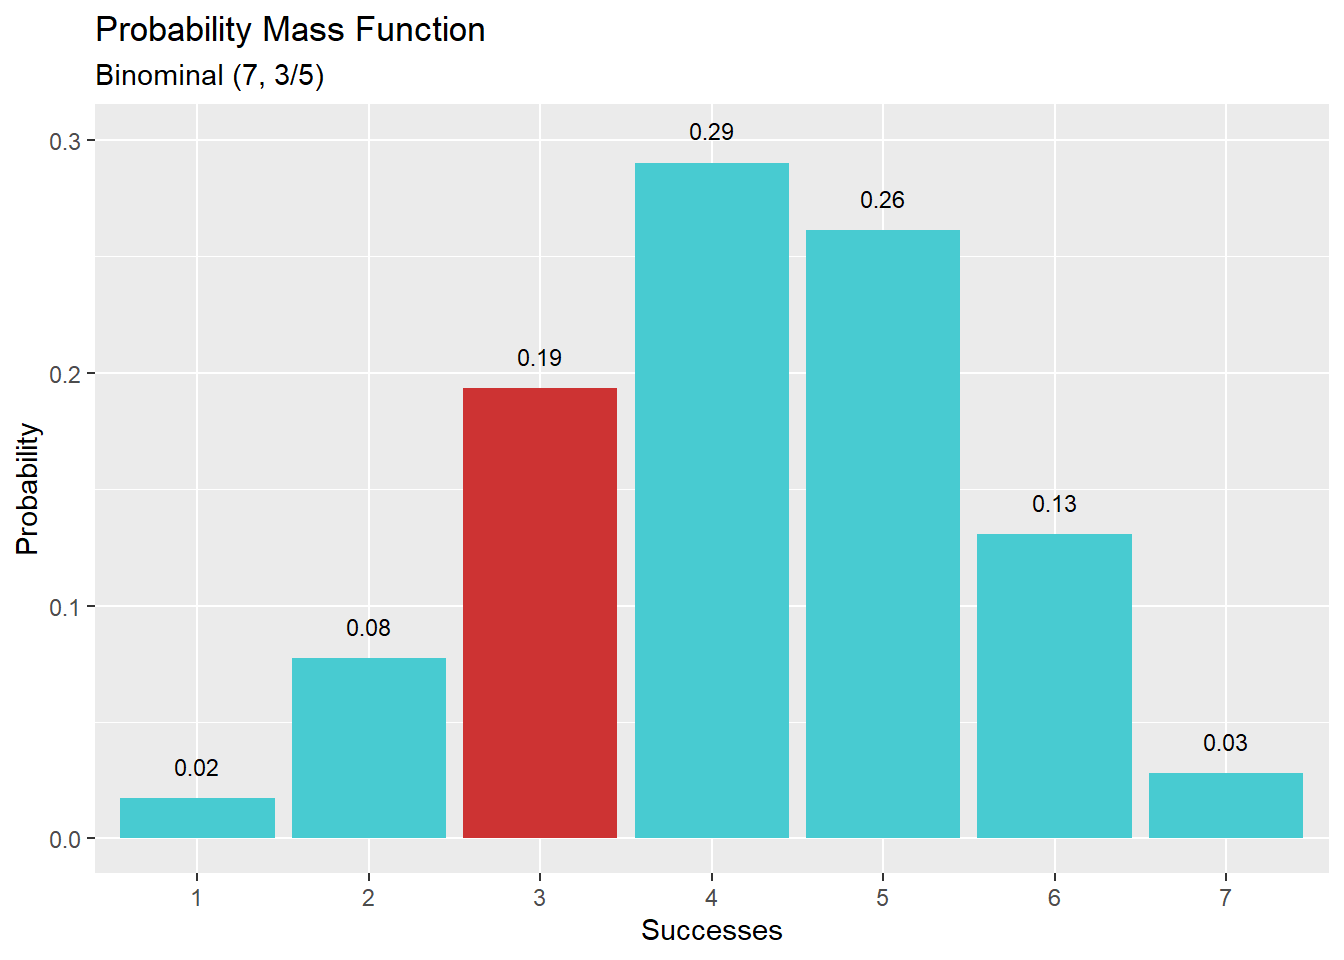
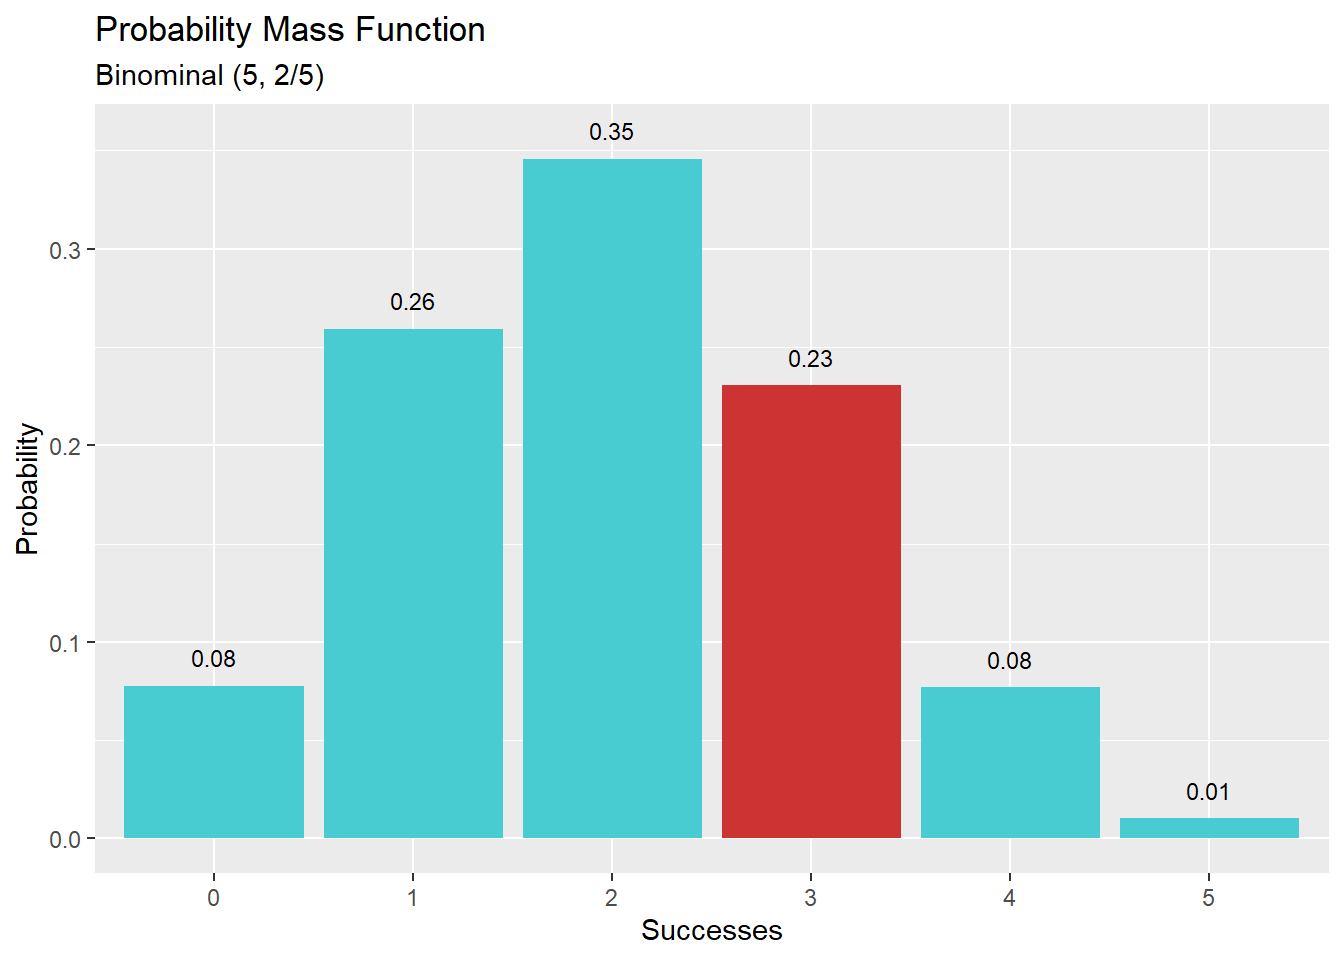
z test and t 5

diff --git a/משתנים-מקריים-והתפלגויות.html b/משתנים-מקריים-והתפלגויות.html
@@ -260,7 +260,7 @@ code span.wa { color: #60a0b0; font-weight: bold; font-style: italic; } /* Warni
 <p>דוגמה: נדגום 10 פעמים מתוך התפלגות גיאומטרית עם סיכוי 1/6 להצלחה.
 כמה כשלונות לפני ההצלחה הראשונה יהיו בכל אחד מהמקרים?</p>
 <div class="sourceCode" id="cb2"><pre class="sourceCode r"><code class="sourceCode r"><span id="cb2-1"><a href="משתנים-מקריים-והתפלגויות.html#cb2-1" aria-hidden="true" tabindex="-1"></a><span class="fu">rgeom</span>(<span class="at">n=</span><span class="dv">10</span>, <span class="at">prob=</span><span class="dv">1</span><span class="sc">/</span><span class="dv">6</span>)</span></code></pre></div>
-<pre><code>##  [1]  2 11  9  2  0  7  0 20  3  0</code></pre>
+<pre><code>##  [1]  2  3  0  0 17  2  7  0  0  8</code></pre>
 <h3>
 מציאת הסתברות ספציפית
 </h3>
@@ -308,26 +308,26 @@ code span.wa { color: #60a0b0; font-weight: bold; font-style: italic; } /* Warni
 <p>דוגמה: נדגום 5 פעמים מתוך התפלגות בינומית הכוללת 10 ניסויי ברנולי עם הסתברות 1/3 להצלחה.
 כמה הצלחות יהיו בכל אחד מהמקרים?</p>
 <div class="sourceCode" id="cb13"><pre class="sourceCode r"><code class="sourceCode r"><span id="cb13-1"><a href="משתנים-מקריים-והתפלגויות.html#cb13-1" aria-hidden="true" tabindex="-1"></a><span class="fu">rbinom</span>(<span class="at">n=</span><span class="dv">5</span>, <span class="at">size=</span><span class="dv">10</span>, <span class="at">prob=</span><span class="dv">1</span><span class="sc">/</span><span class="dv">3</span>)</span></code></pre></div>
-<pre><code>## [1] 4 2 3 3 4</code></pre>
+<pre><code>## [1] 1 2 4 2 3</code></pre>
 <h3>
 מציאת הסתברות ספציפית
 </h3>
 <pre><code>dbinom(x, size, prob, log = FALSE)</code></pre>
-<p>דוגמא: ההסתברות למאורע של בדיוק 3 הצלחות מתוך 7 ניסויי ברנולי עם הסתברות 3/5 להצלחה</p>
-<div class="sourceCode" id="cb16"><pre class="sourceCode r"><code class="sourceCode r"><span id="cb16-1"><a href="משתנים-מקריים-והתפלגויות.html#cb16-1" aria-hidden="true" tabindex="-1"></a>p <span class="ot">=</span> (<span class="dv">3</span><span class="sc">/</span><span class="dv">5</span>)</span>
-<span id="cb16-2"><a href="משתנים-מקריים-והתפלגויות.html#cb16-2" aria-hidden="true" tabindex="-1"></a>size <span class="ot">=</span> <span class="dv">7</span></span>
+<p>דוגמא: ההסתברות למאורע של בדיוק 3 הצלחות מתוך 5 ניסויי ברנולי עם הסתברות 2/5 להצלחה</p>
+<div class="sourceCode" id="cb16"><pre class="sourceCode r"><code class="sourceCode r"><span id="cb16-1"><a href="משתנים-מקריים-והתפלגויות.html#cb16-1" aria-hidden="true" tabindex="-1"></a>p <span class="ot">=</span> <span class="dv">2</span><span class="sc">/</span><span class="dv">5</span></span>
+<span id="cb16-2"><a href="משתנים-מקריים-והתפלגויות.html#cb16-2" aria-hidden="true" tabindex="-1"></a>size <span class="ot">=</span> <span class="dv">5</span></span>
 <span id="cb16-3"><a href="משתנים-מקריים-והתפלגויות.html#cb16-3" aria-hidden="true" tabindex="-1"></a>successes <span class="ot">=</span> <span class="dv">3</span></span>
-<span id="cb16-4"><a href="משתנים-מקריים-והתפלגויות.html#cb16-4" aria-hidden="true" tabindex="-1"></a><span class="fu">dbinom</span>(<span class="at">x =</span> successes, <span class="at">size =</span> size, <span class="at">prob =</span> p) <span class="co"># 0.193536</span></span></code></pre></div>
+<span id="cb16-4"><a href="משתנים-מקריים-והתפלגויות.html#cb16-4" aria-hidden="true" tabindex="-1"></a><span class="fu">dbinom</span>(<span class="at">x =</span> successes, <span class="at">size =</span> size, <span class="at">prob =</span> p) <span class="co"># 0.2304</span></span></code></pre></div>
 <p><img src="R-Tutorials_files/figure-html/unnamed-chunk-12-1.png" width="672" style="display: block; margin: auto auto auto 0;" /></p>
 <h3>
 הסתברות מצטברת עד לנקודה p
 </h3>
 <pre><code>pbinom(q, size, prob, lower.tail = TRUE, log.p = FALSE)</code></pre>
-<p>דוגמא: ההסתברות המצטברת של עד 3 הצלחות. (כלומר, הסיכוי לקבל שלוש הצלחות לכל היותר. סכום ההסתברויות) מתוך התפלגות בינומית הכוללת 6 ניסויי ברנולי עם הסתברות 2/3 להצלחה.</p>
-<div class="sourceCode" id="cb18"><pre class="sourceCode r"><code class="sourceCode r"><span id="cb18-1"><a href="משתנים-מקריים-והתפלגויות.html#cb18-1" aria-hidden="true" tabindex="-1"></a>p <span class="ot">=</span> <span class="dv">2</span><span class="sc">/</span><span class="dv">3</span></span>
+<p>דוגמא: ההסתברות המצטברת של עד 3 הצלחות. (כלומר, הסיכוי לקבל שלוש הצלחות לכל היותר. סכום ההסתברויות) מתוך התפלגות בינומית הכוללת 5 ניסויי ברנולי עם הסתברות 1/2 להצלחה.</p>
+<div class="sourceCode" id="cb18"><pre class="sourceCode r"><code class="sourceCode r"><span id="cb18-1"><a href="משתנים-מקריים-והתפלגויות.html#cb18-1" aria-hidden="true" tabindex="-1"></a>p <span class="ot">=</span> <span class="dv">1</span><span class="sc">/</span><span class="dv">2</span></span>
 <span id="cb18-2"><a href="משתנים-מקריים-והתפלגויות.html#cb18-2" aria-hidden="true" tabindex="-1"></a>n <span class="ot">=</span> <span class="dv">3</span></span>
-<span id="cb18-3"><a href="משתנים-מקריים-והתפלגויות.html#cb18-3" aria-hidden="true" tabindex="-1"></a>size <span class="ot">=</span> <span class="dv">6</span></span>
-<span id="cb18-4"><a href="משתנים-מקריים-והתפלגויות.html#cb18-4" aria-hidden="true" tabindex="-1"></a><span class="fu">pbinom</span>(<span class="at">q =</span> n, <span class="at">size =</span> size, <span class="at">prob =</span> p, <span class="at">lower.tail =</span> <span class="cn">TRUE</span>) <span class="co"># 0.3196159</span></span></code></pre></div>
+<span id="cb18-3"><a href="משתנים-מקריים-והתפלגויות.html#cb18-3" aria-hidden="true" tabindex="-1"></a>size <span class="ot">=</span> <span class="dv">5</span></span>
+<span id="cb18-4"><a href="משתנים-מקריים-והתפלגויות.html#cb18-4" aria-hidden="true" tabindex="-1"></a><span class="fu">pbinom</span>(<span class="at">q =</span> n, <span class="at">size =</span> size, <span class="at">prob =</span> p, <span class="at">lower.tail =</span> <span class="cn">TRUE</span>) <span class="co"># 0.8125</span></span></code></pre></div>
 <p><img src="R-Tutorials_files/figure-html/unnamed-chunk-14-1.png" width="672" style="display: block; margin: auto auto auto 0;" /></p>
 <h3>
 הסתברות מצטברת מנקודה p (כל הערכים שגדולים מ-p)
@@ -363,9 +363,9 @@ code span.wa { color: #60a0b0; font-weight: bold; font-style: italic; } /* Warni
 <span id="cb24-4"><a href="משתנים-מקריים-והתפלגויות.html#cb24-4" aria-hidden="true" tabindex="-1"></a>norm_sample <span class="ot">&lt;-</span> <span class="fu">rnorm</span>(<span class="at">n=</span>n, <span class="at">mean=</span>mean, <span class="at">sd=</span>sd)</span>
 <span id="cb24-5"><a href="משתנים-מקריים-והתפלגויות.html#cb24-5" aria-hidden="true" tabindex="-1"></a><span class="co"># print the first 20 items</span></span>
 <span id="cb24-6"><a href="משתנים-מקריים-והתפלגויות.html#cb24-6" aria-hidden="true" tabindex="-1"></a><span class="fu">print</span>(norm_sample[<span class="dv">0</span><span class="sc">:</span><span class="dv">20</span>])</span></code></pre></div>
-<pre><code>##  [1] 51.67233 53.32431 69.04341 65.12751 64.12149 57.37924 62.22402 62.54497
-##  [9] 60.80654 67.32395 62.28088 51.80256 54.13205 57.30581 53.55748 58.90666
-## [17] 55.29403 54.83831 61.73867 54.25352</code></pre>
+<pre><code>##  [1] 59.25664 61.04838 56.55537 65.07384 50.65500 61.45350 66.09099 70.10266
+##  [9] 57.99677 67.83765 55.85247 64.87317 58.62496 62.81638 56.23248 61.32613
+## [17] 59.57106 58.23682 62.05545 56.32074</code></pre>
 <p>אלו היו עשרים הערכים הראשונים מתוך 300 הערכים במדגם. <br>
 <em>שימו לב שממוצע המדגם לא יהיה 60, אלא רק קרוב ל60, ההתפלגות הנורמלית התיאורטית מייצגת אין סוף ערכים, בעוד שאנחנו דגמנו מקרית מספר סופי של ערכים.</em> <br>
 <em>גם סטיית התקן של המדגם תהיה קרובה ל-6 ולא זהה ל-6. בדיוק מאותה סיבה.</em> <br>
